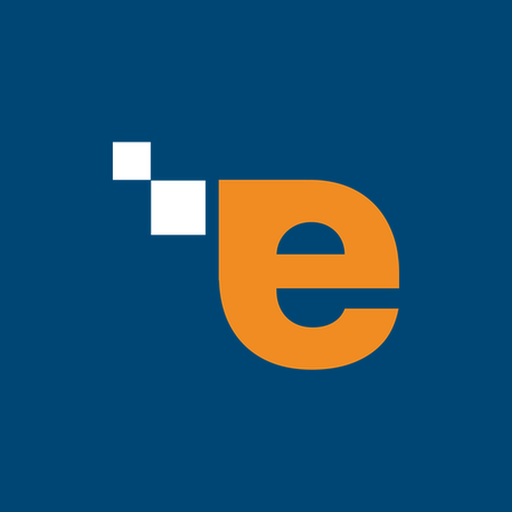
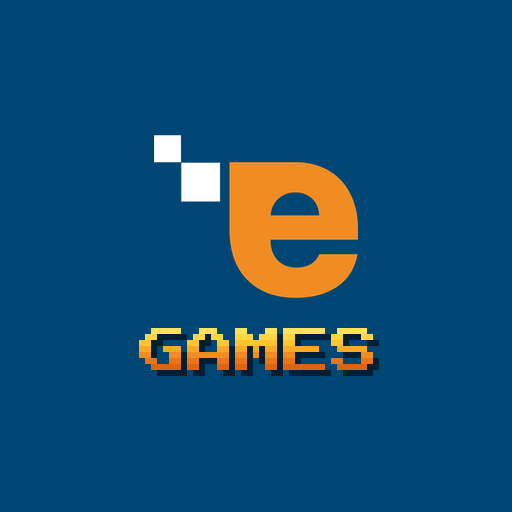
App: scritta "GAMES" in stile arcade anni '80 sotto la "e" dell'icona
Claude-Session: https://claude.ai/code/session_01LdUZVoKfYuMV2hAhBE7cjt

Changed region(s): [[0.2188, 0.25, 0.7812, 0.75]]

diff --git a/.claude/skills/efuture-games/memoria.md b/.claude/skills/efuture-games/memoria.md
@@ -15,7 +15,7 @@ Niente segreti qui: niente codici di sblocco, chiave admin, password o dati dei 
 
 - A fine lavoro l'utente vuole che si pubblichi tutto su main (lo ha chiesto più volte il 12/10).
 - A fine livello il pulsante per andare avanti è sempre arancione e viene per primo.
-- Icona dell'app: solo la "e" di Efuture (quella della testa di Efuture Bros) su sfondo blu, senza la scritta efuture (13/10).
+- Icona dell'app: solo la "e" di Efuture (quella della testa di Efuture Bros) su sfondo blu, senza la scritta efuture; sotto, "GAMES" in stile arcade anni '80 (13/10).
 
 - Risposte, commit e testi dell'app in **italiano**. Commit nello stile "Area: cosa cambia per chi usa l'app".
 - Se cambia un file del sito si aumenta la **versione** (`sw.js` efuture-games-vN, `?v=N` negli html, `· vN` in hub.js) con `/efuture-games-commit`, così i telefoni scaricano l'aggiornamento.
@@ -49,7 +49,7 @@ Niente segreti qui: niente codici di sblocco, chiave admin, password o dati dei 
 | 07/10 – 09/10 | Claude Code `session_015LsFVpYFCmd5CgErkamknr` | Skill caricabili sull'account (zip); CoreTech senza schermata a ogni livello, joystick a destra in orizzontale, bug che rinascono dal liv. 2; Timenet senza schermata e pallone grande che sfonda; risultato con solo punti/livelli/tempo; posizione in classifica nella home; SysAdmin (omino, piattaforme, bug, antivirus una volta); home: giochi che chiedono l'accesso, Classifica solo dopo l'accesso; titolo classifica arcade; pulsante Gioca nell'admin (v23-v34, PR #19-#22). |
 | 09/10 | Claude Code `session_015LsFVpYFCmd5CgErkamknr` | Admin: tipi utente, menu a comparsa, popup Modifica con conferme, FAQ, Documentazione, chiavi admin personali cifrate, sezione Qualità (v35-v37, PR #25-#26); skill `/efuture-games-admin`. Classifica: Schermo intero sul secondo monitor (v38). |
 | 12/10 | Claude Code `session_014RiPo4gT2e1UtaJRgiE7ap` | Countdown dalla classifica con email + chiave admin; Bonus Recensione (pulsante in home, stella gialla/verde in admin, punti in classifica generale, etichetta ⭐); Proietta a schermo intero sul secondo monitor con finestra di regia; Efuture Bros con mouse rasoterra e senza scritte CASA/CLIENTE; pulsante arancione a fine livello nei 4 giochi; visualizzazioni Game/Light/Dark dei giochi e scocca più larga (v41-v56). |
-| 13/10 | Claude Code `session_01LdUZVoKfYuMV2hAhBE7cjt` | Icona dell'app: solo la "e" di Efuture (come la testa di Efuture Bros) su sfondo blu. |
+| 13/10 | Claude Code `session_01LdUZVoKfYuMV2hAhBE7cjt` | Icona dell'app: solo la "e" di Efuture (come la testa di Efuture Bros) su sfondo blu, con la scritta "GAMES" in stile anni '80. |
 
 Le chat di claude.ai e di ChatGPT non sono leggibili da Claude Code: se l'utente ne riassume una, aggiungila qui.
 

diff --git a/docs/specifiche/app-giocatori.md b/docs/specifiche/app-giocatori.md
@@ -16,7 +16,7 @@ Il giocatore si registra con nome ed email e accede con la sola email. I record 
 | `config.js` | `SUPABASE_URL`, `SUPABASE_ANON_KEY`, `PUBLIC_URL` |
 | `sw.js` | Service worker: cache offline e aggiornamenti |
 | `manifest.webmanifest` | Nome, icone, `display: standalone`, `start_url ./` |
-| `icons/` | Icona dell'app (favicon, apple-touch, 192, 512 e maskable): la "e" arancione di Efuture con i quadratini bianchi, la stessa della testa di Efuture Bros (`games/sysadmin/img/logo-testa.png`), su sfondo blu `#004675` |
+| `icons/` | Icona dell'app (favicon, apple-touch, 192, 512 e maskable): la "e" arancione di Efuture con i quadratini bianchi, la stessa della testa di Efuture Bros (`games/sysadmin/img/logo-testa.png`), su sfondo blu `#004675`; sotto, la scritta "GAMES" in Press Start 2P a pixel pieni, con fasce dal giallo all'arancione e ombra blu scuro come nei giochi anni '80 (la favicon ha solo la "e") |
 | `vendor/supabase.js`, `vendor/jsQR.js` | Client Supabase, lettura dei QR |
 
 Ordine degli script in `index.html`: `config.js?v=N`, `vendor/supabase.js`, `backend.js?v=N`, `vendor/jsQR.js`, `hub.js?v=N`. Al `load` della pagina viene registrato `sw.js`.
